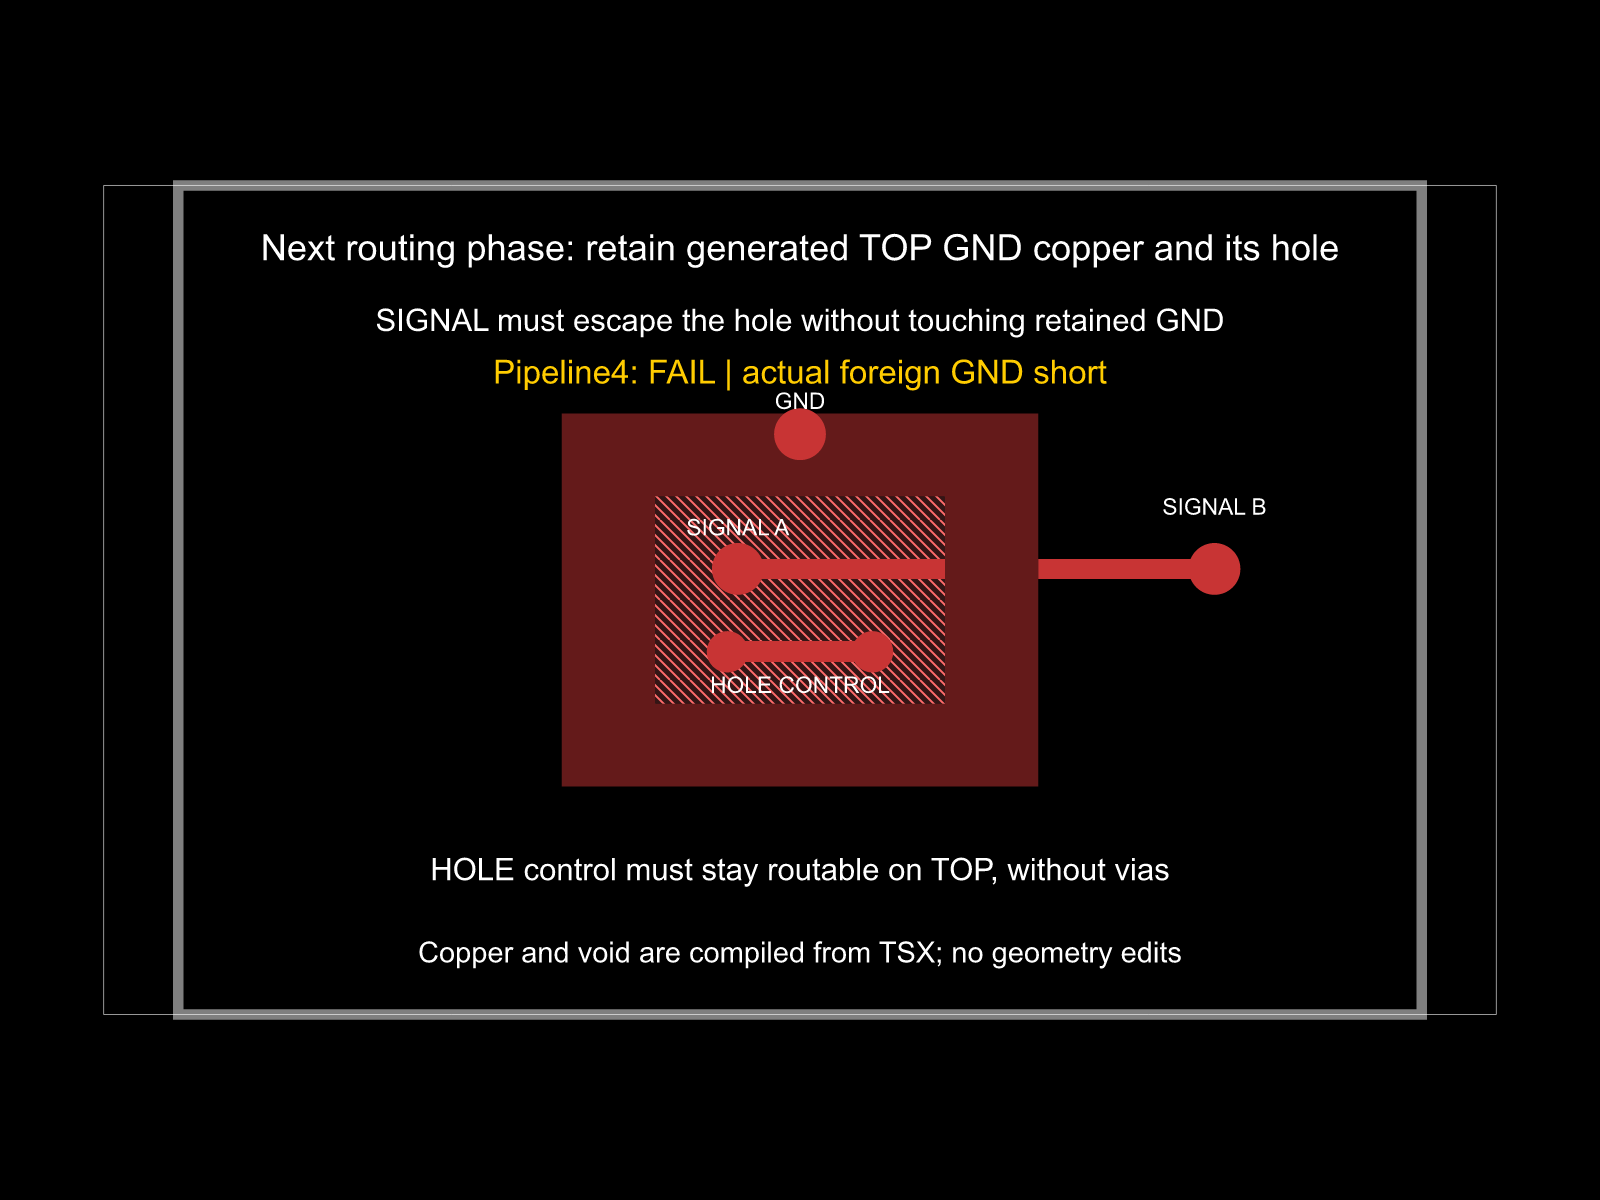
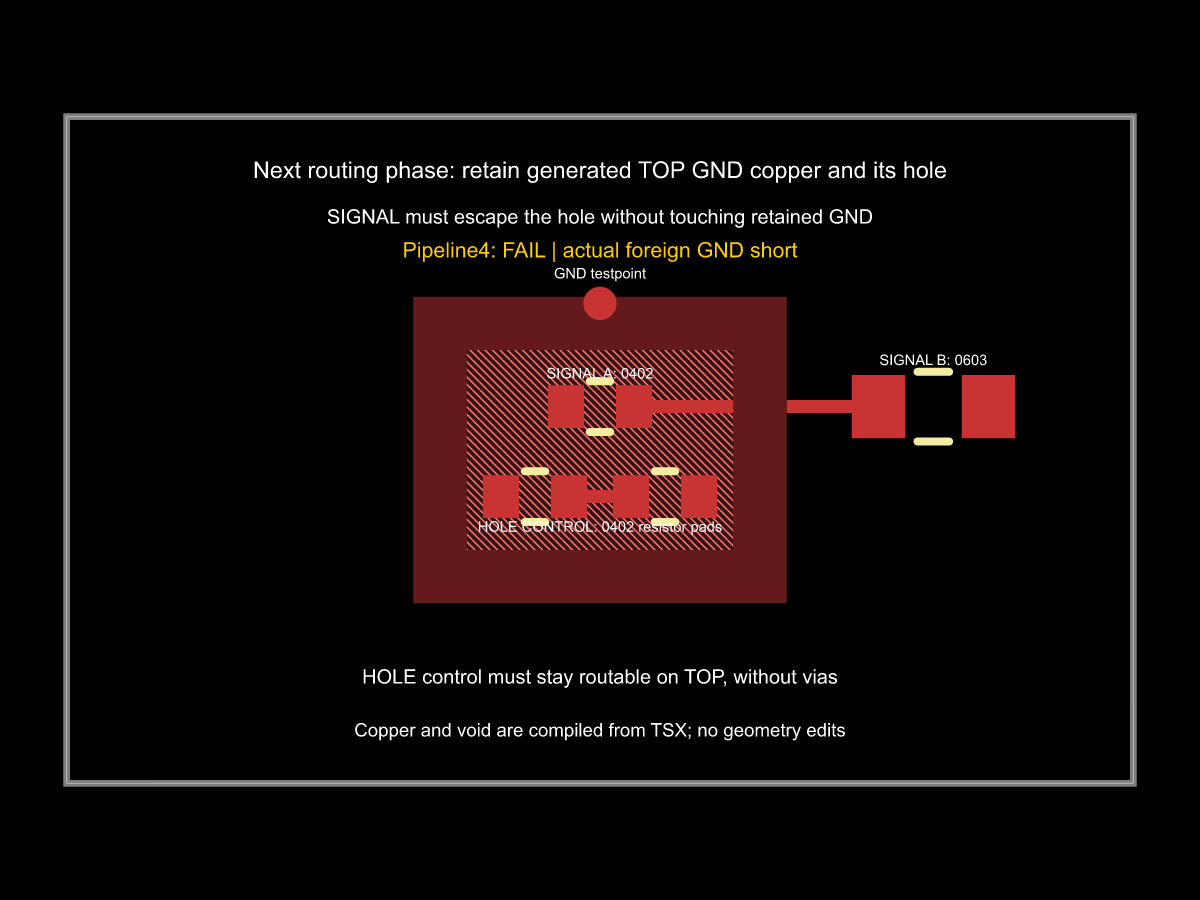
Use real 0402 and 0603 footprints in retained-pour reproduction

Changed region(s): [[0.0308, 0.1244, 0.9558, 0.9022]]

diff --git a/tests/repros/fixtures/retained-pour.fixture.tsx b/tests/repros/fixtures/retained-pour.fixture.tsx
@@ -13,51 +13,51 @@ export const RetainedPourCircuit = ({
 }: {
   pourLayer?: LayerRef
 }) => (
-  <board width={12} height={8} layers={2}>
+  <board width={16} height={10} layers={2}>
     <net name="GND" />
     <testpoint
       name="GND"
       footprintVariant="pad"
       pcbX={0}
-      pcbY={1.6}
+      pcbY={2.2}
       padDiameter={0.5}
       connections={{ pin1: "net.GND" }}
     />
-    <testpoint
+    <resistor
       name="SIGNAL_A"
-      footprintVariant="pad"
-      pcbX={-0.6}
-      pcbY={0.3}
-      padDiameter={0.5}
+      resistance="33"
+      footprint="0402"
+      pcbX={0}
+      pcbY={0.65}
     />
-    <testpoint
+    <resistor
       name="SIGNAL_B"
-      footprintVariant="pad"
-      pcbX={4}
-      pcbY={0.3}
-      padDiameter={0.5}
+      resistance="33"
+      footprint="0603"
+      pcbX={5}
+      pcbY={0.65}
     />
-    <trace from="SIGNAL_A.pin1" to="SIGNAL_B.pin1" thickness={0.2} />
-    <testpoint
+    <trace from="SIGNAL_A.pin2" to="SIGNAL_B.pin1" thickness={0.2} />
+    <resistor
       name="HOLE_A"
-      footprintVariant="pad"
-      pcbX={-0.7}
-      pcbY={-0.5}
-      padDiameter={0.4}
+      resistance="1k"
+      footprint="0402"
+      pcbX={-0.975}
+      pcbY={-0.7}
     />
-    <testpoint
+    <resistor
       name="HOLE_B"
-      footprintVariant="pad"
-      pcbX={0.7}
-      pcbY={-0.5}
-      padDiameter={0.4}
+      resistance="1k"
+      footprint="0402"
+      pcbX={0.975}
+      pcbY={-0.7}
     />
-    <trace from="HOLE_A.pin1" to="HOLE_B.pin1" thickness={0.2} />
+    <trace from="HOLE_A.pin2" to="HOLE_B.pin1" thickness={0.2} />
     {/* A warning-only keepout cuts the poured copper without blocking routing. */}
     <keepout
       shape="rect"
-      width={2.8}
-      height={2}
+      width={4}
+      height={3}
       layers={[pourLayer]}
       warningOnly
       pcbX={0}
@@ -68,55 +68,60 @@ export const RetainedPourCircuit = ({
       connectsTo="net.GND"
       layer={pourLayer}
       outline={[
-        { x: -2.5, y: -2 },
-        { x: 2.5, y: -2 },
-        { x: 2.5, y: 2 },
-        { x: -2.5, y: 2 },
+        { x: -3, y: -2.5 },
+        { x: 3, y: -2.5 },
+        { x: 3, y: 2.5 },
+        { x: -3, y: 2.5 },
       ]}
       clearance={0.2}
     />
-    <pcbnotetext text="GND" pcbY={1.92} fontSize={0.22} color="#ffffff" />
     <pcbnotetext
-      text="SIGNAL A"
-      pcbX={-0.6}
-      pcbY={0.7}
+      text="GND testpoint"
+      pcbY={2.65}
       fontSize={0.22}
       color="#ffffff"
     />
     <pcbnotetext
-      text="SIGNAL B"
-      pcbX={4}
-      pcbY={0.9}
+      text="SIGNAL A: 0402"
+      pcbX={0}
+      pcbY={1.15}
       fontSize={0.22}
       color="#ffffff"
     />
     <pcbnotetext
-      text="HOLE CONTROL"
-      pcbY={-0.82}
+      text="SIGNAL B: 0603"
+      pcbX={5}
+      pcbY={1.35}
+      fontSize={0.22}
+      color="#ffffff"
+    />
+    <pcbnotetext
+      text="HOLE CONTROL: 0402 resistor pads"
+      pcbY={-1.15}
       fontSize={0.22}
       color="#ffffff"
     />
     <pcbnotetext
       text="Next routing phase: retain generated TOP GND copper and its hole"
-      pcbY={3.4}
+      pcbY={4.2}
       fontSize={0.35}
       color="#ffffff"
     />
     <pcbnotetext
       text="SIGNAL must escape the hole without touching retained GND"
-      pcbY={2.7}
+      pcbY={3.5}
       fontSize={0.3}
       color="#ffffff"
     />
     <pcbnotetext
       text="HOLE control must stay routable on TOP, without vias"
-      pcbY={-2.6}
+      pcbY={-3.4}
       fontSize={0.3}
       color="#ffffff"
     />
     <pcbnotetext
       text="Copper and void are compiled from TSX; no geometry edits"
-      pcbY={-3.4}
+      pcbY={-4.2}
       fontSize={0.28}
       color="#ffffff"
     />

diff --git a/tests/repros/repro-retained-pour-routing.test.tsx b/tests/repros/repro-retained-pour-routing.test.tsx
@@ -34,27 +34,29 @@ test("standalone handoff ignores retained pour copper and shorts a subsequent si
   const { routedTraces, vias } =
     await routeRetainedPourConnections(simpleRouteJson)
   for (const [traceIndex, pcbTrace] of routedTraces.entries()) {
-    expect([pcbTrace.route[0], pcbTrace.route.at(-1)]).toEqual(
-      expect.arrayContaining(
-        simpleRouteJson.connections[traceIndex]!.pointsToConnect.map((point) =>
-          expect.objectContaining({
-            route_type: "wire",
-            x: point.x,
-            y: point.y,
-            layer: point.layer,
-          }),
-        ),
-      ),
-    )
+    const endpoints = [pcbTrace.route[0]!, pcbTrace.route.at(-1)!]
+    for (const point of simpleRouteJson.connections[traceIndex]!
+      .pointsToConnect) {
+      const endpoint = endpoints.find(
+        (endpoint) =>
+          endpoint.route_type === "wire" &&
+          endpoint.layer === point.layer &&
+          Math.hypot(endpoint.x - point.x, endpoint.y - point.y) < 1e-8,
+      )
+      // Native routing rounds millimeter coordinates; contacts must still meet
+      // their actual compiled footprint pads within numerical precision.
+      expect(endpoint).toBeDefined()
+    }
   }
   const signal = routedTraces[0]!
   const holeControl = routedTraces[1]!
   const routed = [...circuitJson, ...routedTraces, ...vias]
   const shorts = checkCopperPourShorts(routed)
   expect(shorts).toHaveLength(1)
-  expect(shorts[0]!.message).toContain("SIGNAL_A.pin1 to SIGNAL_B.pin1")
+  expect(shorts[0]!.message).toContain("SIGNAL_A.pin2 to SIGNAL_B.pin1")
   const overlapArea = getRetainedPourWireOverlapArea(pour, signal)
-  expect(overlapArea).toBeCloseTo(0.18, 6)
+  // A 0.20 mm signal crosses the retained ring's 0.80 mm copper wall.
+  expect(overlapArea).toBeCloseTo(0.16, 6)
   expect(checkCopperPourShorts([...circuitJson, holeControl])).toHaveLength(0)
   expect(holeControl.route.every((point) => point.route_type === "wire")).toBe(
     true,
@@ -69,13 +71,13 @@ test("standalone handoff ignores retained pour copper and shorts a subsequent si
   const status = circuit.db.pcb_note_text.insert({
     font: "tscircuit2024",
     text: `FAIL: GND short | ${shorts.length} DRC error | ${overlapArea.toFixed(2)} mm2 overlap`,
-    anchor_position: { x: 0, y: 2.2 },
+    anchor_position: { x: 0, y: 3.0 },
     anchor_alignment: "center",
     font_size: 0.32,
     layer: "top",
     color: "#ffcc00",
   })
-  // Authored notes replace oversized automatic testpoint silkscreen only in
+  // Authored notes replace oversized automatic component silkscreen only in
   // diagnostic views. Routing/checking still use every compiled record.
   await expect(
     [...routed, status].filter(
@@ -101,7 +103,7 @@ test("standalone handoff ignores retained pour copper and shorts a subsequent si
   const pipeline4Status = circuit.db.pcb_note_text.insert({
     font: "tscircuit2024",
     text: "Pipeline4: FAIL | actual foreign GND short",
-    anchor_position: { x: 0, y: 2.2 },
+    anchor_position: { x: 0, y: 3.0 },
     anchor_alignment: "center",
     font_size: 0.32,
     layer: "top",
